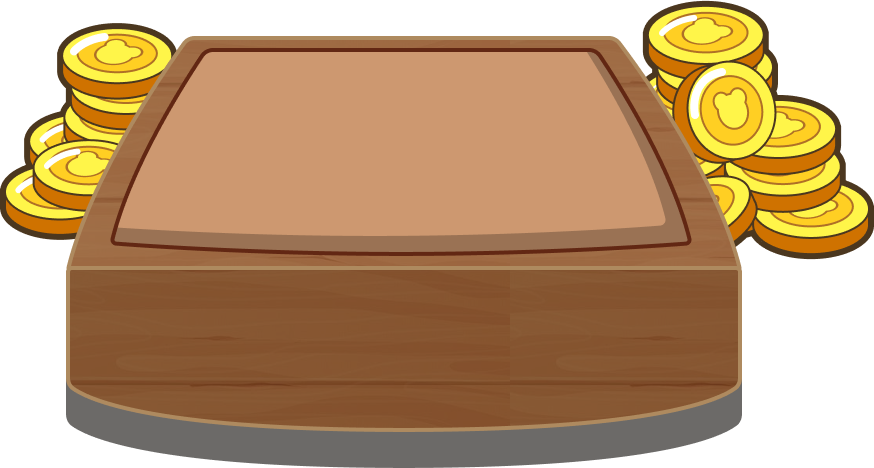
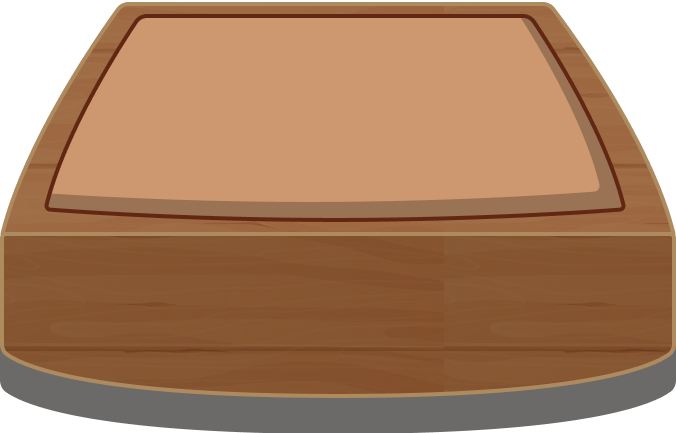
feat: Add coin explosion animation and improve spin button visuals
Introduced a coin explosion animation triggered on spin button click to enhance user experience. Refactored related styles and layout to improve responsiveness and visual alignment. Added new SVG assets for better design coherence.

diff --git a/sections/lucky-bera/components/tiger.tsx b/sections/lucky-bera/components/tiger.tsx
@@ -1,5 +1,5 @@
 import { motion, useAnimate } from 'framer-motion';
-import { memo } from "react";
+import { memo, useRef, useState } from 'react';
 import { SPIN_CATEGORIES, SpinMultiplier } from '@/sections/lucky-bera/config';
 import LightingButton from '@components/Button/lighting-button';
 import { numberFormatter } from '@/utils/number-formatter';
@@ -12,16 +12,142 @@ const SPIN_PROGRESS_BASE = 10; // percent
 
 const progress = 15;
 
+const SpinCategories = Object.values(SPIN_CATEGORIES);
+
 export default memo(function Tiger() {
   const [leftWheel, leftWheelAnimate] = useAnimate();
   const [centerWheel, centerWheelAnimate] = useAnimate();
   const [rightWheel, rightWheelAnimate] = useAnimate();
+  const progressScope = useRef<any>();
 
-  const SpinCategories = Object.values(SPIN_CATEGORIES);
+  const createCoin = (x: number, y: number) => {
+    const coin = document.createElement('div');
+    // Set basic styles for coin element
+    coin.style.position = 'fixed';
+    coin.style.left = `${x}px`;
+    coin.style.top = `${y}px`;
+    coin.style.width = '100px';
+    coin.style.height = '100px';
+    coin.style.backgroundImage = "url('/images/lucky-bera/reward-coin.svg')";
+    coin.style.backgroundSize = 'contain';
+    coin.style.backgroundRepeat = 'no-repeat';
+    coin.style.pointerEvents = 'none';
+    coin.style.zIndex = '9999';
+    coin.style.transformStyle = 'preserve-3d';
+    coin.style.backfaceVisibility = 'visible';
+    coin.style.opacity = '0';
+
+    document.body.appendChild(coin);
+    return coin;
+  };
+
+  const animateCoin = (coin: HTMLDivElement, startX: number, startY: number) => {
+    const horizontalDistance = (Math.random() - 0.5) * 400;
+    const maxHeight = -(Math.random() * 400 + 300);
+
+    // Movement and rotation animation keyframes
+    const moveKeyframes = [
+      // Initial position
+      {
+        transform: 'translate(0, 50px) rotate3d(1, 1, 1, 0deg)',
+        offset: 0
+      },
+      // First rapid ascent phase
+      {
+        transform: `translate(${horizontalDistance * 0.2}px, ${maxHeight * 0.3}px) rotate3d(1, 1, 1, ${Math.random() * 180}deg)`,
+        offset: 0.15
+      },
+      // Second rapid ascent phase
+      {
+        transform: `translate(${horizontalDistance * 0.4}px, ${maxHeight * 0.7}px) rotate3d(1, 1, 1, ${Math.random() * 360}deg)`,
+        offset: 0.3
+      },
+      // Peak point
+      {
+        transform: `translate(${horizontalDistance * 0.6}px, ${maxHeight}px) rotate3d(1, 1, 1, ${Math.random() * 540}deg)`,
+        offset: 0.4
+      },
+      // Start slow descent
+      {
+        transform: `translate(${horizontalDistance * 0.8}px, ${maxHeight * 0.6}px) rotate3d(1, 1, 1, ${Math.random() * 720}deg)`,
+        offset: 0.7
+      },
+      // Accelerated descent
+      {
+        transform: `translate(${horizontalDistance}px, ${Math.abs(maxHeight * 0.5)}px) rotate3d(1, 1, 1, ${Math.random() * 1080}deg)`,
+        offset: 1
+      }
+    ];
+
+    // Opacity animation keyframes
+    const opacityKeyframes = [
+      { opacity: 0, offset: 0 },     // Initially invisible
+      { opacity: 1, offset: 0.1 },  // Brief invisibility period
+      { opacity: 1, offset: 0.2 },  // Quick fade in
+      { opacity: 0, offset: 0.8 },   // Maintain visibility
+      { opacity: 0, offset: 1 }      // Fade out
+    ];
+
+    // Create animations with adjusted duration
+    const moveAnimation = coin.animate(moveKeyframes, {
+      duration: 4000,
+      easing: 'cubic-bezier(0.2, 1, 0.3, 1)', // Adjusted easing for smoother motion
+      fill: 'forwards'
+    });
+
+    const opacityAnimation = coin.animate(opacityKeyframes, {
+      duration: 3000, // Match movement animation duration
+      easing: 'linear',
+      fill: 'forwards'
+    });
+
+    // Cleanup function to remove element when animations complete
+    const removeElement = () => {
+      if (moveAnimation.playState === 'finished' && opacityAnimation.playState === 'finished') {
+        coin.remove();
+      }
+    };
+
+    moveAnimation.onfinish = removeElement;
+    opacityAnimation.onfinish = removeElement;
+  };
+
+  const createCoinsExplosion = (centerX: number, centerY: number) => {
+    const numberOfCoins = 15;
+    const delayBetweenCoins = 100; // Delay between each coin's animation
+
+    // Create multiple waves of coins with different delays and parameters
+    const createWave = (delay: number, count: number) => {
+      for (let i = 0; i < count; i++) {
+        setTimeout(() => {
+          const coin = createCoin(centerX, centerY);
+          animateCoin(coin, centerX, centerY);
+        }, i * delayBetweenCoins + delay);
+      }
+    };
+
+    // Create waves with adjusted intervals
+    createWave(0, numberOfCoins);      // First wave
+    createWave(120, numberOfCoins);    // Second wave with delay
+    createWave(240, numberOfCoins);    // Third wave with delay
+  };
+
+  const handleSpin = () => {
+    // Find and validate spin button
+    const button = document.querySelector('.spin-button');
+    if (!button) return;
+
+    // Calculate center position for coin explosion
+    const rect = button.getBoundingClientRect();
+    const startX = rect.left + rect.width / 2;
+    const startY = rect.top + rect.height / 2;
+
+    createCoinsExplosion(startX, startY);
+  };
 
   return (
-    <div className="flex flex-col items-center justify-center pt-[88px]">
-      <div className="relative w-[368px] h-[365px] bg-[url('/images/lucky-bera/bear-top.png')] bg-center bg-contain">
+    <div className="w-full flex flex-col items-center justify-center pt-[88px]">
+      <div className="relative w-[368px] h-[365px] max-w-full bg-[url('/images/lucky-bera/bear-top.png')] bg-center bg-contain">
         <div className="absolute w-[266px] left-[52px] top-[18px]">
           <img src="/images/lucky-bera/title.png" alt="title" />
         </div>
@@ -32,13 +158,21 @@ export default memo(function Tiger() {
             </div>
             <div className="text-[#FFF4C2] text-stroke-2 text-[24px] font-cherryBomb">8,000</div>
           </div>
-          <div className="m-[6px_0_8px] relative pl-[4px] w-[200px] h-[25px] flex items-center  rounded-[10px] border-2 border-[#E49F63] bg-[#582911]">
+          <div
+            ref={progressScope}
+            className="m-[6px_0_8px] relative pl-[4px] w-[200px] h-[25px] flex items-center  rounded-[10px] border-2 border-[#E49F63] bg-[#582911]"
+          >
             <div className="absolute -left-[15px] w-[32px] ">
               <img src="/images/lucky-bera/reward-bee.svg" alt="theme" className="w-[27px]" />
             </div>
-            <div className="w-[130px] h-[18px] rounded-[6px] border-2 border-[#F8C200] bg-[#FFE380] shadow-[0px_4px_0px_0px_rgba(255, 255, 255, 0.50)_inset]" />
+            <div
+              className="h-[18px] rounded-[6px] border-2 border-[#F8C200] bg-[#FFE380] shadow-[0px_4px_0px_0px_rgba(255, 255, 255, 0.50)_inset]"
+              style={{
+                width: "50%"
+              }}
+            />
 
-            <div className="absolute left-1/2 top-1/2 -translate-x-1/2 -translate-y-1/2 font-cherryBomb text-[12px] text-stroke-1-FFF4C2 bg-gradient-to-b from-[#926D48] to-[#221911] bg-clip-text text-transparent">
+            <div className="absolute left-1/2 top-1/2 -translate-x-1/2 -translate-y-1/2 font-cherryBomb text-[12px] text-stroke-1-FFF4C2 bg-gradient-to-b from-[#926D48] to-[#221911] bg-clip-text text-transparent [-webkit-text-fill-color: transparent]">
               12,250 / 20,000
             </div>
 
@@ -192,31 +326,35 @@ export default memo(function Tiger() {
           <img src="/images/lucky-bera/icon-flash.png" alt="" className="w-[16px] shrink-0 h-[25px] object-center object-contain bg-no-repeat" />
         </LightingButton>
       </div>
-      <div className="relative flex flex-col items-center w-[437px] h-[234px] translate-x-[20px] translate-y-[-20px] bg-[url('/images/lucky-bera/bear-bottom.png')] bg-top bg-contain bg-no-repeat">
-        <motion.button
-          type="button"
-          className="w-[143px] h-[76px] bg-[url('/images/lucky-bera/spin-button.svg')] bg-no-repeat bg-center bg-contain"
-          whileTap={{
-            scaleY: 0.9,
-          }}
-          style={{
-            transformOrigin: "center bottom",
-            x: -20,
-            y: 30,
-          }}
-        />
-        <div className="absolute flex pl-[35px] pr-[13px] items-center bottom-[25px] translate-x-[-20px] w-[241px] h-[64px] bg-[url('/images/lucky-bera/honey-progress.svg')] bg-no-repeat bg-center bg-contain">
-          <img src="/images/lucky-bera/honey-progress-icon.svg" alt="" className="w-[77px] h-[68px] shrink-0 absolute z-[2] left-[-22px] top-[2px]" />
-          <div
-            className="h-[24px] relative border-[2px] overflow-hidden border-[#F8C200] bg-[#F8D61F] rounded-[12px] shadow-[0px_4px_0px_0px_rgba(255,255,255,0.50)_inset]"
-            style={{
-              width: `${SPIN_PROGRESS_BASE + (progress * (100 - SPIN_PROGRESS_BASE) / 100)}%`,
+      <div className="relative flex justify-center w-full h-[216px] translate-y-[-5px] overflow-hidden">
+        <img src="/images/lucky-bera/bear-bottom-coins-left.svg" alt="" className="absolute translate-x-[-140px] z-[1]" />
+        <img src="/images/lucky-bera/bear-bottom-coins-right.svg" alt="" className="absolute translate-x-[160px] z-[1]" />
+        <div className="relative z-[2] flex flex-col items-center w-[338px] max-w-full h-full bg-[url('/images/lucky-bera/bear-bottom.png')] bg-top bg-contain bg-no-repeat">
+          <motion.button
+            type="button"
+            className="spin-button w-[143px] h-[76px] bg-[url('/images/lucky-bera/spin-button.svg')] bg-no-repeat bg-center bg-contain"
+            whileTap={{
+              scaleY: 0.9,
             }}
-          >
-            <div className="w-full h-full rounded-[8px] bg-[#f8d621] translate-y-[2px]"></div>
-          </div>
-          <div className="absolute left-1/2 top-1/2 -translate-x-1/2 -translate-y-1/2 whitespace-nowrap bg-[linear-gradient(180deg,_#926D48_0%,_#221911_100%)] bg-clip-text [-webkit-text-fill-color: transparent] text-[20px] font-cherryBomb text-stroke-1-FFF4C2 font-[400] leading-[100%] text-center">
-            12 / 50
+            style={{
+              transformOrigin: "center bottom",
+              y: 15,
+            }}
+            onClick={handleSpin}
+          />
+          <div className="absolute flex pl-[35px] pr-[13px] items-center bottom-[25px] w-[241px] h-[64px] bg-[url('/images/lucky-bera/honey-progress.svg')] bg-no-repeat bg-center bg-contain">
+            <img src="/images/lucky-bera/honey-progress-icon.svg" alt="" className="w-[77px] h-[68px] shrink-0 absolute z-[2] left-[-22px] top-[2px]" />
+            <div
+              className="h-[24px] relative border-[2px] overflow-hidden border-[#F8C200] bg-[#F8D61F] rounded-[12px] shadow-[0px_4px_0px_0px_rgba(255,255,255,0.50)_inset]"
+              style={{
+                width: `${SPIN_PROGRESS_BASE + (progress * (100 - SPIN_PROGRESS_BASE) / 100)}%`,
+              }}
+            >
+              <div className="w-full h-full rounded-[8px] bg-[#f8d621] translate-y-[2px]"></div>
+            </div>
+            <div className="absolute left-1/2 top-1/2 -translate-x-1/2 -translate-y-1/2 whitespace-nowrap bg-[linear-gradient(180deg,_#926D48_0%,_#221911_100%)] bg-clip-text [-webkit-text-fill-color: transparent] text-[20px] font-cherryBomb text-stroke-1-FFF4C2 font-[400] leading-[100%] text-center">
+              12 / 50
+            </div>
           </div>
         </div>
       </div>
